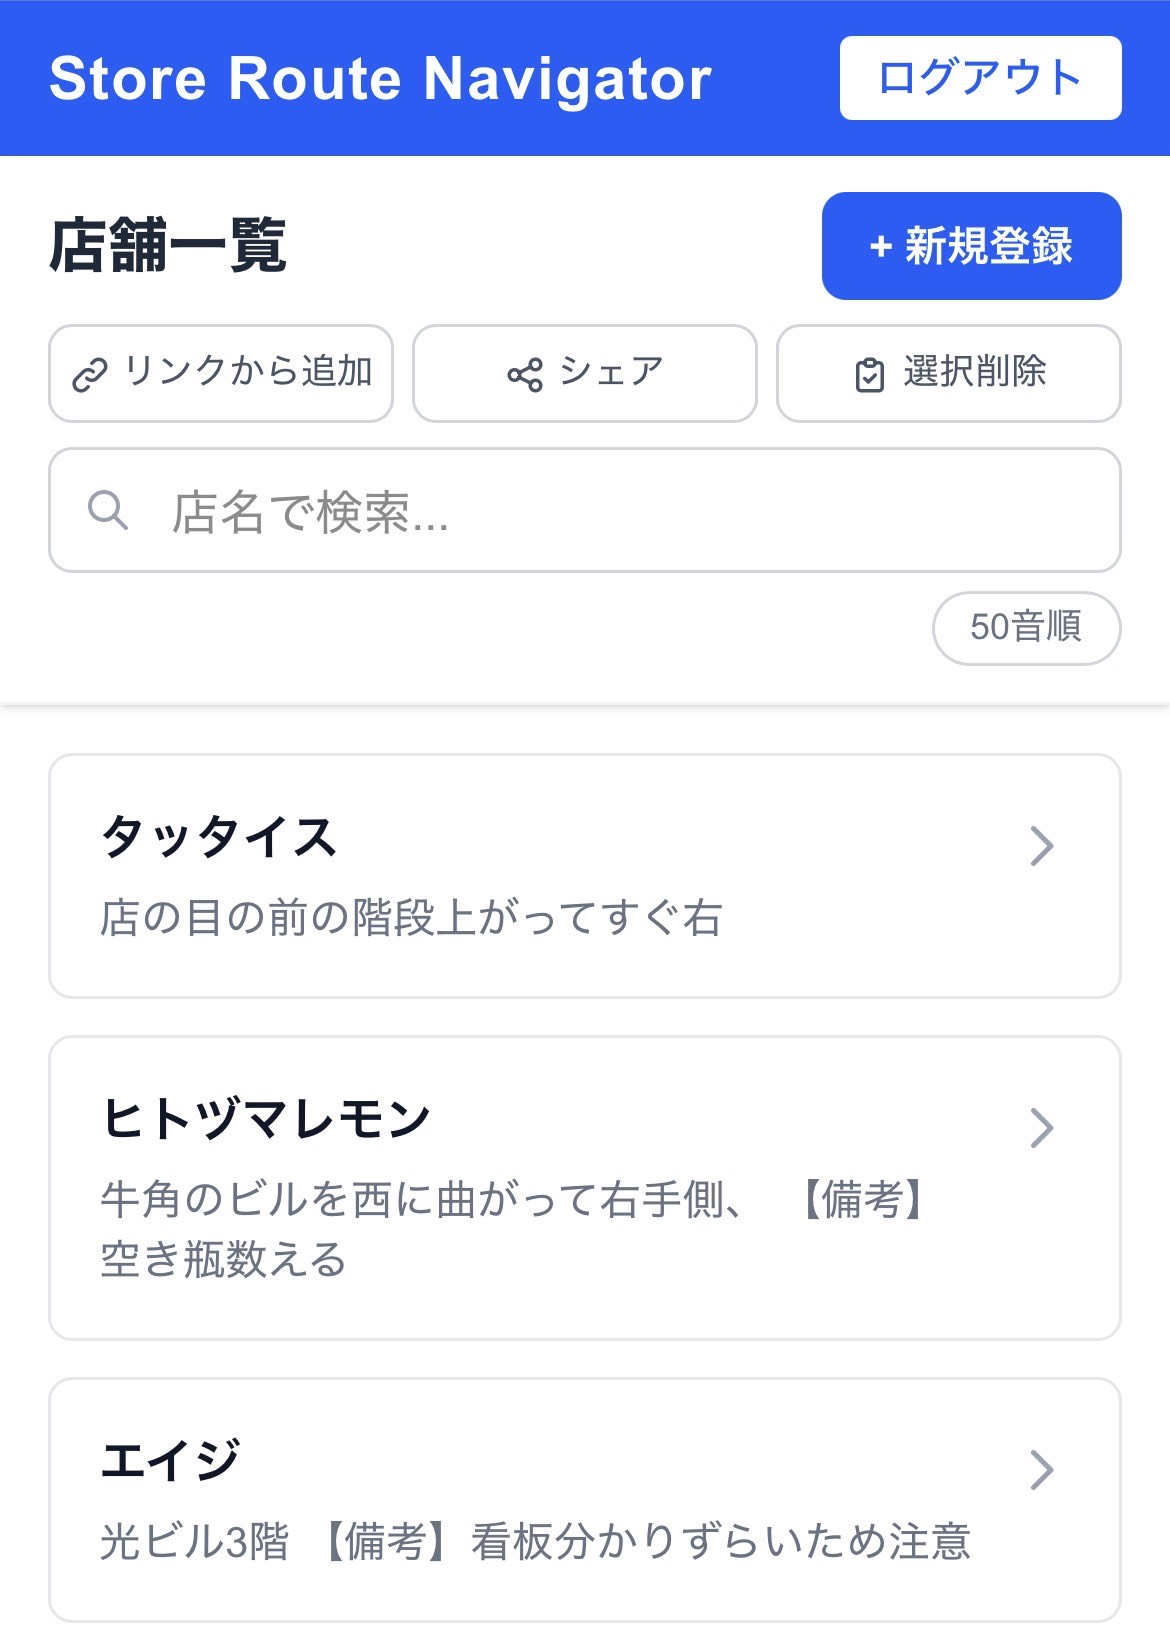
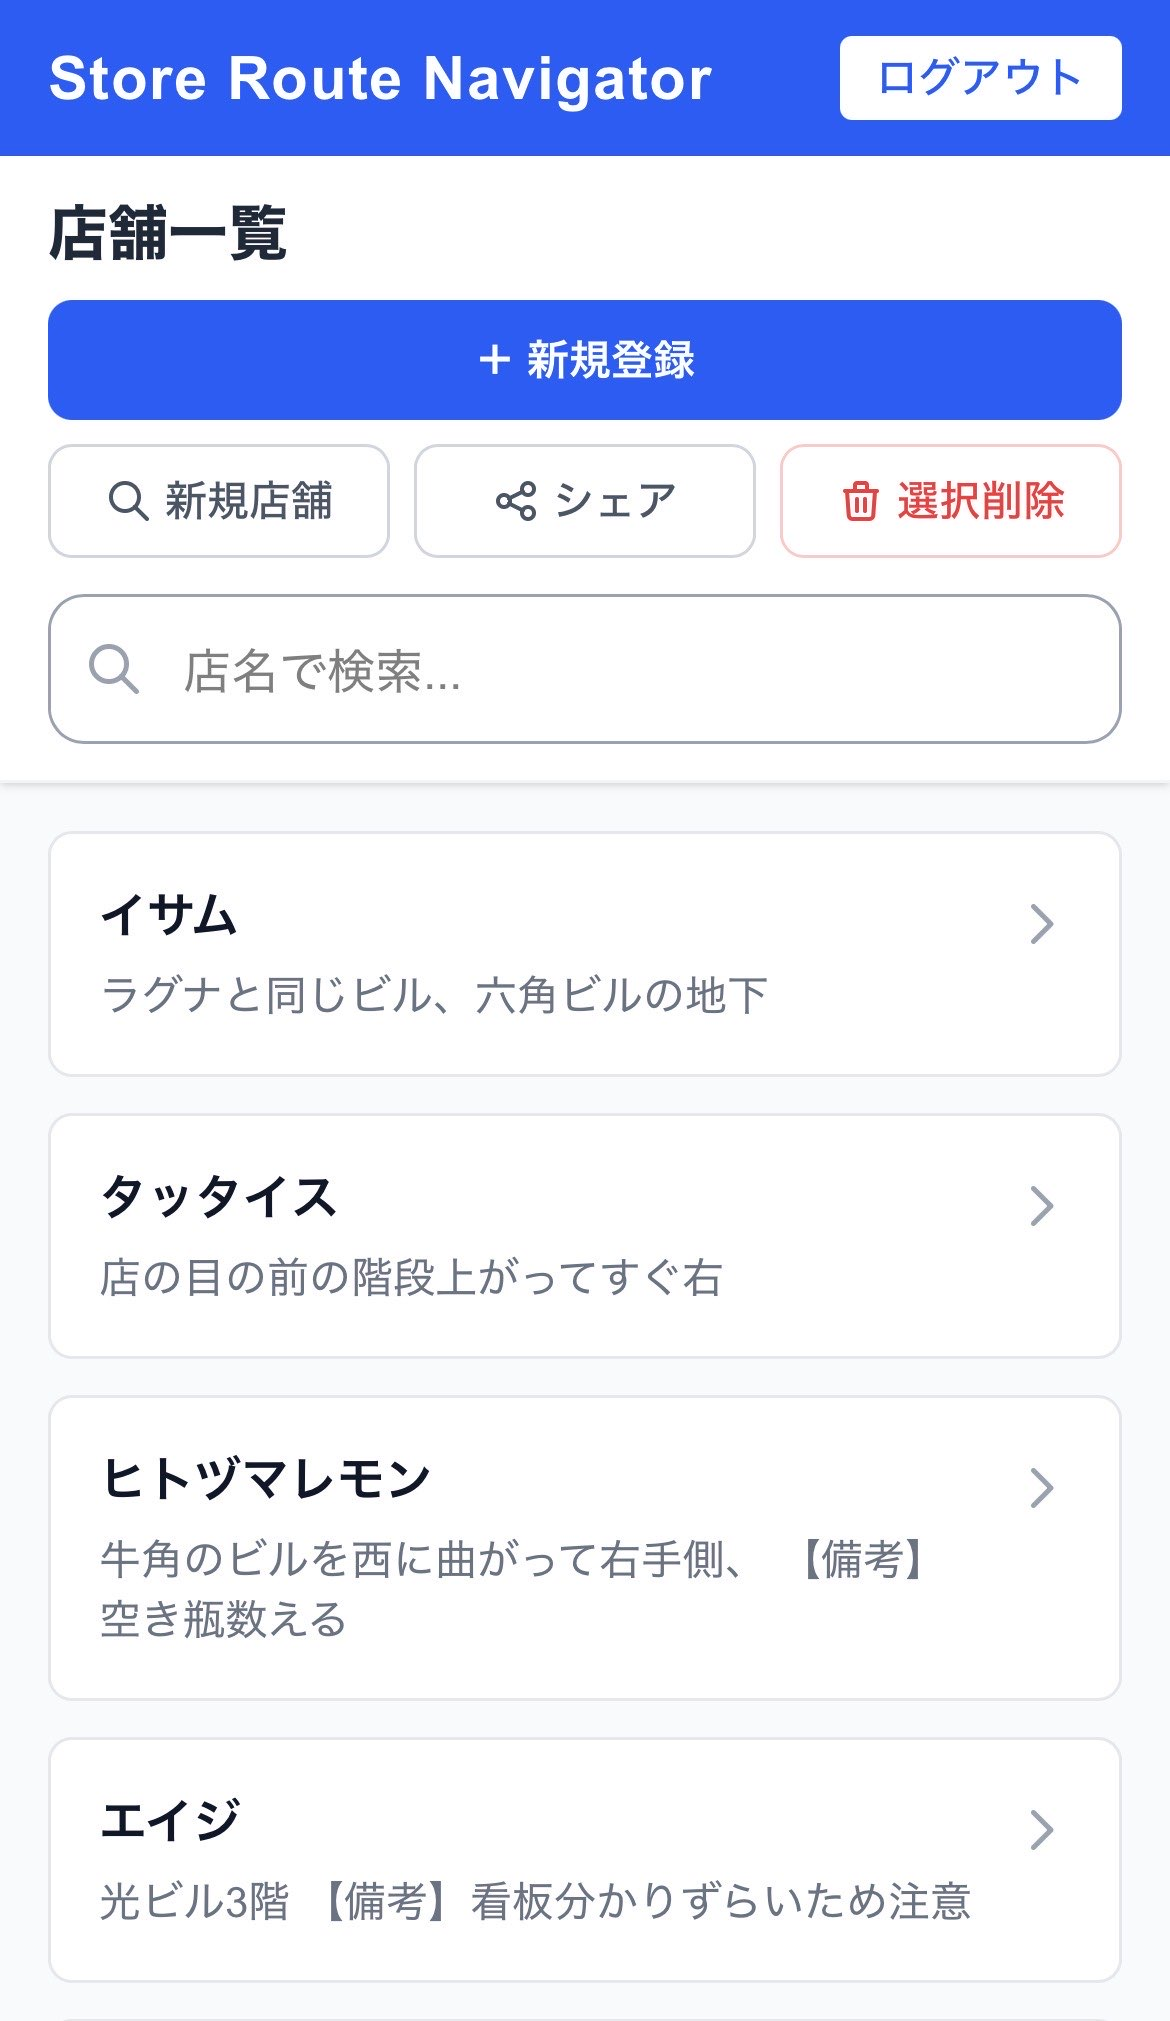
画面設計書のスクショパス修正・シェアモード/新規店舗追加の設計書を追加
- 既存設計書の<img>パスを実ファイル名に合わせて修正
- 2-1-b シェアモード・3-1 新規店舗追加の画面設計書を新規作成
- 旧PNGダイアグラムを削除（Mermaid .mdに移行済み）
- スクショフォルダを新ファイル名で差し替え

diff --git a/設計/画面設計書/2-1-b_シェアモード.md b/設計/画面設計書/2-1-b_シェアモード.md
@@ -1,0 +1,49 @@
+# 2-1-b. シェアモード SP
+
+<img src="../画面スクショ/シェアモード.jpg" width="320" alt="シェアモード" />
+
+## ワイヤーフレーム
+
+```
+┌─────────────────────────────┐
+│ ① Store Route Navigator ログアウト│
+├─────────────────────────────┤
+│ ② ＜  シェアモード          │
+│                             │
+│ ┌─────────────────────────┐ │
+│ │ ③ 未シェアを全て選択    │ │
+│ └─────────────────────────┘ │
+│                             │
+│ ┌───────────┐┌────────────┐ │
+│ │④シェアする││⑤ 取り消す │ │
+│ │  （3件）  ││  （0件）   │ │
+│ └───────────┘└────────────┘ │
+│                             │
+│ ┌─────────────────────────┐ │
+│ │ 🔍 ⑥ 店名で検索...      │ │
+│ └─────────────────────────┘ │
+├─────────────────────────────┤
+│ ┌─────────────────────────┐ │
+│ │ ☑ ⑦ 店舗名             │ │
+│ └─────────────────────────┘ │
+│ ┌─────────────────────────┐ │
+│ │ ☑ ⑦ 店舗名             │ │
+│ └─────────────────────────┘ │
+│ ┌─────────────────────────┐ │
+│ │ ☐ ⑦ 店舗名（未チェック）│ │
+│ └─────────────────────────┘ │
+│         ・・・               │
+└─────────────────────────────┘
+```
+
+## 機能詳細
+
+| 番号 | 機能名 | 詳細 | 挙動 | 遷移先 |
+|---|---|---|---|---|
+| ① | ヘッダー | アプリ名とログアウトボタンを表示 | ログアウトボタンクリックでセッション破棄 | 1-1 ログイン |
+| ② | 戻るボタン・タイトル | 「＜」で店舗一覧に戻る。タイトルは「シェアモード」 | クリックで戻る | 2-1 店舗一覧 |
+| ③ | 未シェアを全て選択 | まだシェアしていない店舗をすべてチェック状態にする全幅のアウトラインボタン | クリックで未シェア店舗を一括選択 | - |
+| ④ | シェアするボタン | 選択中の件数を表示。選択店舗を公開テーブルへ INSERT する。青色ボタン | クリックでシェア処理 → 件数更新 | - |
+| ⑤ | 取り消すボタン | 選択中の件数を表示。選択店舗のシェアを公開テーブルから DELETE する。オレンジボタン | クリックで取り消し処理 → 件数更新 | - |
+| ⑥ | 検索バー | 店名でリアルタイム絞り込み | テキスト入力で即時フィルタリング | - |
+| ⑦ | 店舗カード（チェック付き） | 店舗名を表示。チェックボックスでシェア対象を選択。シェア済み店舗は初期チェック状態 | タップでチェック ON/OFF | - |

diff --git a/設計/画面設計書/3-1_新規店舗追加.md b/設計/画面設計書/3-1_新規店舗追加.md
@@ -1,0 +1,38 @@
+# 3-1. 新規店舗追加（公開店舗リスト）SP
+
+<img src="../画面スクショ/新規店舗追加.jpg" width="320" alt="新規店舗追加" />
+
+## ワイヤーフレーム
+
+```
+┌─────────────────────────────┐
+│ ① Store Route Navigator ログアウト│
+├─────────────────────────────┤
+│ ② ＜ 新規店舗リスト  全て選択 ③│
+│                    ④追加（3件）│
+│                             │
+│ ┌─────────────────────────┐ │
+│ │ ☑ ⑤ 店舗名             │ │
+│ └─────────────────────────┘ │
+│ ┌─────────────────────────┐ │
+│ │ ☑ ⑤ 店舗名             │ │
+│ └─────────────────────────┘ │
+│ ┌─────────────────────────┐ │
+│ │ ☑ ⑤ 店舗名             │ │
+│ └─────────────────────────┘ │
+│ ┌─────────────────────────┐ │
+│ │ ☐ ⑤ 店舗名（未チェック）│ │
+│ └─────────────────────────┘ │
+│         ・・・               │
+└─────────────────────────────┘
+```
+
+## 機能詳細
+
+| 番号 | 機能名 | 詳細 | 挙動 | 遷移先 |
+|---|---|---|---|---|
+| ① | ヘッダー | アプリ名とログアウトボタンを表示 | ログアウトボタンクリックでセッション破棄 | 1-1 ログイン |
+| ② | 戻るボタン・タイトル | 「＜」で店舗一覧に戻る。タイトルは「新規店舗リスト」 | クリックで戻る | 2-1 店舗一覧 |
+| ③ | 全て選択リンク | 一覧に表示されているすべての店舗をチェック状態にするテキストリンク | クリックで全件選択 | - |
+| ④ | 追加ボタン | 選択中の件数を表示。選択した公開店舗を自分の店舗一覧へ複製（INSERT）する。青色ボタン | クリックで追加処理 → 成功時は店舗一覧へ遷移 | 成功: 2-1 店舗一覧 |
+| ⑤ | 店舗カード（チェック付き） | 他ユーザーが公開した店舗名を表示。チェックボックスで追加対象を選択 | タップでチェック ON/OFF | - |

diff --git a/設計/画面設計書/2-3_店舗詳細.md b/設計/画面設計書/2-3_店舗詳細.md
@@ -1,6 +1,6 @@
 # 2-3. 店舗詳細・ルート表示 SP
 
-<img src="../画面スクショ/店舗情報表示画面.jpg" width="320" alt="店舗詳細" />
+<img src="../画面スクショ/店舗詳細.jpg" width="320" alt="店舗詳細" />
 
 ## ワイヤーフレーム
 

diff --git a/設計/画面設計書/1-1_ログイン.md b/設計/画面設計書/1-1_ログイン.md
@@ -1,6 +1,6 @@
 # 1-1. ログイン画面 SP
 
-<img src="../画面スクショ/ログイン画面.jpg" width="320" alt="ログイン画面" />
+<img src="../画面スクショ/ログイン.jpg" width="320" alt="ログイン画面" />
 
 ## ワイヤーフレーム
 

diff --git a/設計/画面設計書/2-2_店舗新規登録.md b/設計/画面設計書/2-2_店舗新規登録.md
@@ -1,6 +1,6 @@
 # 2-2. 店舗新規登録 SP
 
-<img src="../画面スクショ/店舗登録画面.jpg" width="320" alt="店舗新規登録" />
+<img src="../画面スクショ/店舗登録.jpg" width="320" alt="店舗新規登録" />
 
 ## ワイヤーフレーム
 

diff --git a/設計/画面設計書/2-4_店舗編集.md b/設計/画面設計書/2-4_店舗編集.md
@@ -1,6 +1,6 @@
 # 2-4. 店舗編集 SP
 
-<img src="../画面スクショ/店舗編集画面.jpg" width="320" alt="店舗編集" />
+<img src="../画面スクショ/店舗編集.jpg" width="320" alt="店舗編集" />
 
 ## ワイヤーフレーム
 

diff --git a/設計/画面設計書/1-2_新規登録.md b/設計/画面設計書/1-2_新規登録.md
@@ -1,6 +1,5 @@
 # 1-2. 新規登録画面 SP
 
-<img src="../画面スクショ/新規登録画面.jpg" width="320" alt="新規登録画面" />
 
 ## ワイヤーフレーム
 
